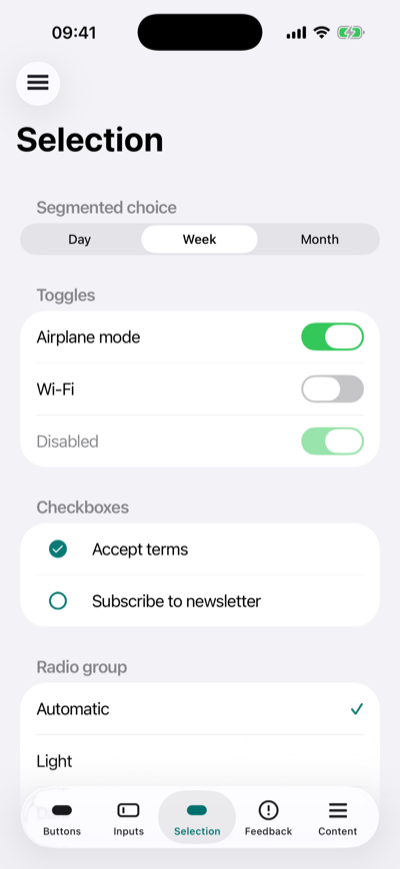
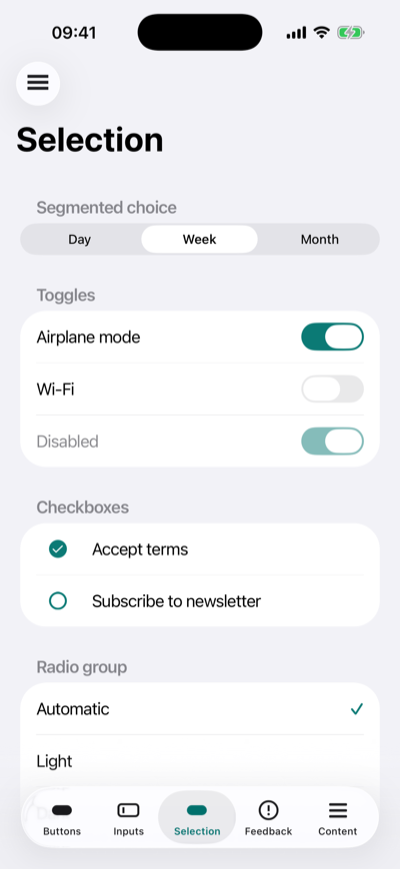
Add an opt-in brand color for iOS switches

Changed region(s): [[0.75, 0.3728, 0.93, 0.4661], [0.75, 0.4661, 0.84, 0.5282], [0.75, 0.435, 0.78, 0.4661]]

diff --git a/src/Maui.NativeStyles/Platforms/iOS/NativeStyles.iOS.cs b/src/Maui.NativeStyles/Platforms/iOS/NativeStyles.iOS.cs
@@ -28,6 +28,17 @@ public static partial class NativeStylesExtensions
 			var tint = UIColor.FromDynamicProvider(traits => traits.UserInterfaceStyle == UIUserInterfaceStyle.Dark ? dark : light);
 			s_brandTint = tint;
 			WindowHandler.Mapper.AppendToMapping(MappingKey, (handler, _) => handler.PlatformView.TintColor = tint);
+
+			// UISwitch ignores the tint color (it is green by design); branding it is an explicit choice
+			if (options.Brand.TintsSwitches)
+			{
+				foreach (var key in new[] { MappingKey, nameof(ISwitch.TrackColor), nameof(ISwitch.IsOn) })
+					SwitchHandler.Mapper.AppendToMapping(key, (handler, view) =>
+					{
+						if (view.TrackColor is null)
+							handler.PlatformView.OnTintColor = tint;
+					});
+			}
 		}
 
 		// UIButtonConfiguration (iOS 15+) / Liquid Glass (iOS 26+), driven by the NativeButton attached properties.

diff --git a/src/Maui.NativeStyles/BrandPalette.cs b/src/Maui.NativeStyles/BrandPalette.cs
@@ -44,6 +44,15 @@ public sealed class BrandPalette
 	/// </summary>
 	public bool MaterialColorMatch { get; set; }
 
+	/// <summary>
+	/// iOS: draw switches in the brand color when they are on. Off by default: UISwitch does not follow the tint color
+	/// and the Human Interface Guidelines say to "change the default color of a switch only if necessary. The default
+	/// green color tends to work well in most cases, but you might want to use your app's accent color instead" (make
+	/// sure it contrasts with the off state). A Switch that sets its own <c>OnColor</c> keeps it. Android switches always
+	/// follow the generated Material scheme.
+	/// </summary>
+	public bool TintsSwitches { get; set; }
+
 	/// <summary>iOS-only overrides of the brand color.</summary>
 	public PlatformBrand IOS { get; } = new();
 

diff --git a/tests/Maui.NativeStyles.Tests/BrandPaletteTests.cs b/tests/Maui.NativeStyles.Tests/BrandPaletteTests.cs
@@ -60,6 +60,15 @@ public class BrandPaletteTests : IDisposable
 	}
 
 	[Fact]
+	public void Platform_conventions_are_kept_unless_asked()
+	{
+		var brand = new BrandPalette(Brand);
+
+		Assert.False(brand.TintsSwitches);
+		Assert.False(brand.MaterialColorMatch);
+	}
+
+	[Fact]
 	public void UseNativeStyles_installs_the_brand()
 	{
 		MauiApp.CreateBuilder().UseNativeStyles(options => options.Brand = new BrandPalette(Brand, BrandDark));

diff --git a/samples/NativeStyles.Sample/MauiProgram.cs b/samples/NativeStyles.Sample/MauiProgram.cs
@@ -18,6 +18,8 @@ public static class MauiProgram
 				{
 					// Android: use the exact brand color as the light-theme primary instead of Material's darker tone
 					MaterialColorMatch = true,
+					// iOS: switches are green by design; the HIG allows the accent color when it suits the brand
+					TintsSwitches = true,
 				};
 			});
 

diff --git a/README.md b/README.md
@@ -281,6 +281,7 @@ builder.UseNativeStyles(options =>
     options.Brand = new BrandPalette(Color.FromArgb("#0B7A75"), accentDark: Color.FromArgb("#3FC1B4"))
     {
         MaterialColorMatch = true,   // Android: keep the exact brand color as the light-theme primary
+        TintsSwitches = true,        // iOS: brand the switches too (green by default, as the HIG recommends)
     };
 });
 ```
@@ -293,11 +294,14 @@ color so differently that it resolves into two platform palettes:
 | What branding means | one tint color; backgrounds, labels and semantic colors stay Apple's | a whole tonal scheme derived from a seed: primary / secondary / tertiary families, tinted surfaces, outlines, light **and** dark |
 | `Accent` | the window tint: buttons, links, selection, tab bar and toolbar items, alerts, and the `Accent` / `TonalContainer` roles | the seed. The library generates the scheme with Material's own algorithm (`SchemeContent`) |
 | `AccentDark` | tint in dark mode (a brighter variant, as Apple does with its system colors); defaults to `Accent` | ignored: Material computes the dark tones from the seed |
-| Native controls | follow the tint automatically (`UISwitch` stays green, as on iOS) | the generated scheme replaces Material's color resources for every activity (Android 11+), so Switch, CheckBox, RadioButton, Slider, progress indicators, text fields, the navigation bar, tabs and dialogs are branded too |
+| Native controls | follow the tint automatically. `UISwitch` ignores the tint and stays green, as in Apple's apps; set `TintsSwitches` to brand it | the generated scheme replaces Material's color resources for every activity (Android 11+), so Switch, CheckBox, RadioButton, Slider, progress indicators, text fields, the navigation bar, tabs and dialogs are branded too |
 
 - `options.Brand.IOS.Accent` / `options.Brand.Android.Accent` give one platform a different brand color.
 - `options.Brand.Set(SystemColorRole.Destructive, light, dark)` pins an individual role (it wins over everything, but only
   for colors resolved through `{native:SystemColor}`; native Android widgets keep the generated scheme).
+- `TintsSwitches` (iOS): switches use the brand color when on. It is off by default because the Human Interface Guidelines
+  say to change a switch's color "only if necessary" (the default green works in most cases, the accent color is the
+  accepted alternative). A `Switch` with its own `OnColor` keeps it. Android switches always follow the generated scheme.
 - `MaterialColorMatch`: Material puts `primary` at a fixed tone of the seed's palette (usually darker than the brand color,
   which becomes `primaryContainer`). Set it to keep the exact color as the light-theme primary, like "color match" in
   Material Theme Builder.
